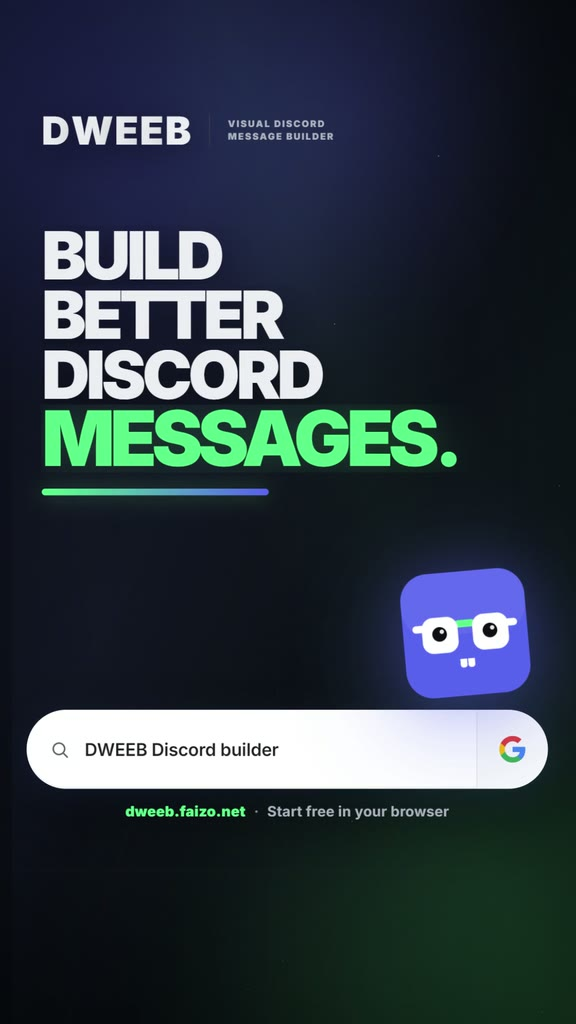
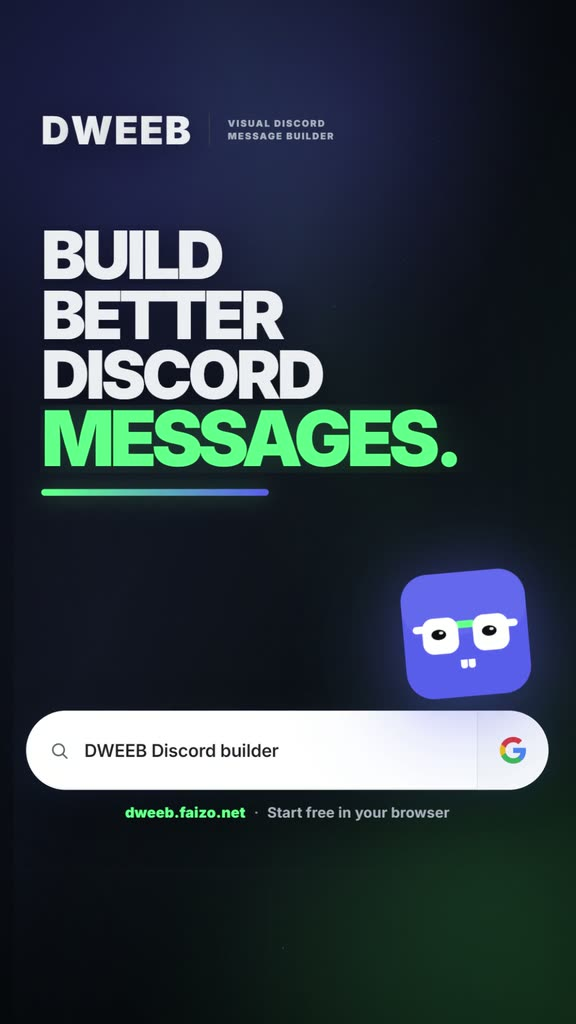
chore(video): refresh app intro from promo film; fix intro JSON-LD
Re-rendered both masters with the rebalanced end card and re-cut the web
intros (720p / 576x1024, CRF 28) + posters. The VideoObject JSON-LD still
described the retired 90-second film — duration is now PT54S with today's
uploadDate, and the stale ~90s comments follow.

diff --git a/index.html b/index.html
@@ -217,21 +217,21 @@
         ]
       }
     </script>
-    <!-- The opt-in 90-second intro film (More ▸ Watch intro). Declaring it here
+    <!-- The opt-in ~55-second intro film (More ▸ Watch intro). Declaring it here
          makes the home page eligible for video indexing/rich results; the file
-         itself stays lazy-mounted and never autoplays. Keep uploadDate in sync
-         with a re-shot film, not with app releases. -->
+         itself stays lazy-mounted and never autoplays. Keep uploadDate and
+         duration in sync with a re-shot film, not with app releases. -->
     <script type="application/ld+json">
       {
         "@context": "https://schema.org",
         "@type": "VideoObject",
         "@id": "https://dweeb.faizo.net/#intro-film",
-        "name": "DWEEB in 90 seconds — visual Discord message builder tour",
+        "name": "DWEEB in under a minute — visual Discord message builder tour",
         "description": "A quick tour of DWEEB: visually building a Discord Components V2 message with containers, buttons and media, watching the live preview, and sending it through a webhook.",
         "thumbnailUrl": "https://dweeb.faizo.net/media/intro-poster.jpg",
         "contentUrl": "https://dweeb.faizo.net/media/intro.mp4",
-        "uploadDate": "2026-07-05",
-        "duration": "PT1M19S",
+        "uploadDate": "2026-07-17",
+        "duration": "PT54S",
         "inLanguage": "en",
         "about": { "@id": "https://dweeb.faizo.net/#webapp" },
         "publisher": { "@id": "https://dweeb.faizo.net/#organization" }

diff --git a/src/features/welcome/WelcomeVideo.tsx b/src/features/welcome/WelcomeVideo.tsx
@@ -3,7 +3,7 @@
  *
  * Opened explicitly from More ▸ "Watch the intro". The
  * film (rendered from `video/`, compressed web cuts in `public/media/`) tells
- * the whole product story in ~90 seconds with kinetic captions burned in — so
+ * the whole product story in under a minute with kinetic captions burned in — so
  * it starts muted (autoplay policy) and still lands, with one tap for sound.
  *
  * Layout picks the cut for the screen it's on: the landscape 16:9 master on